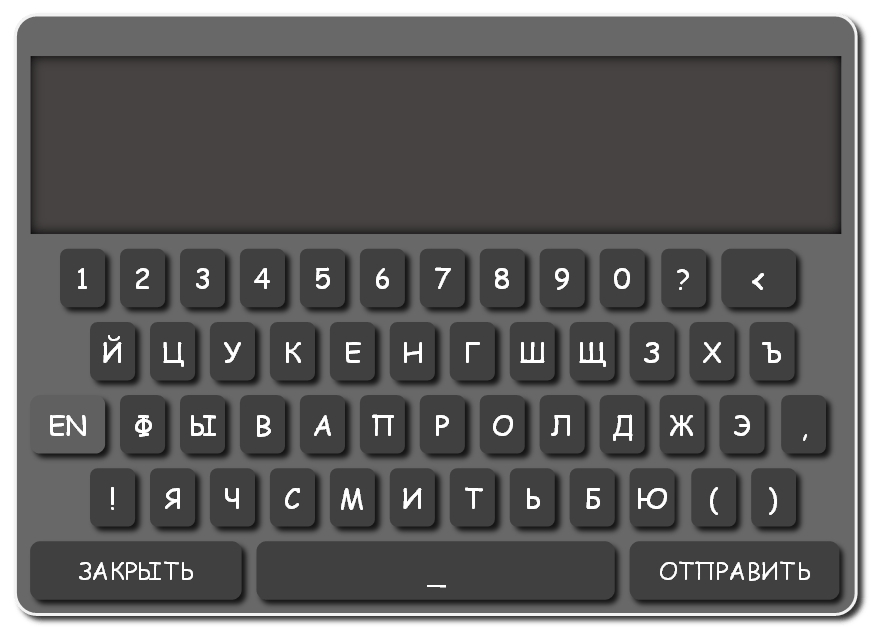
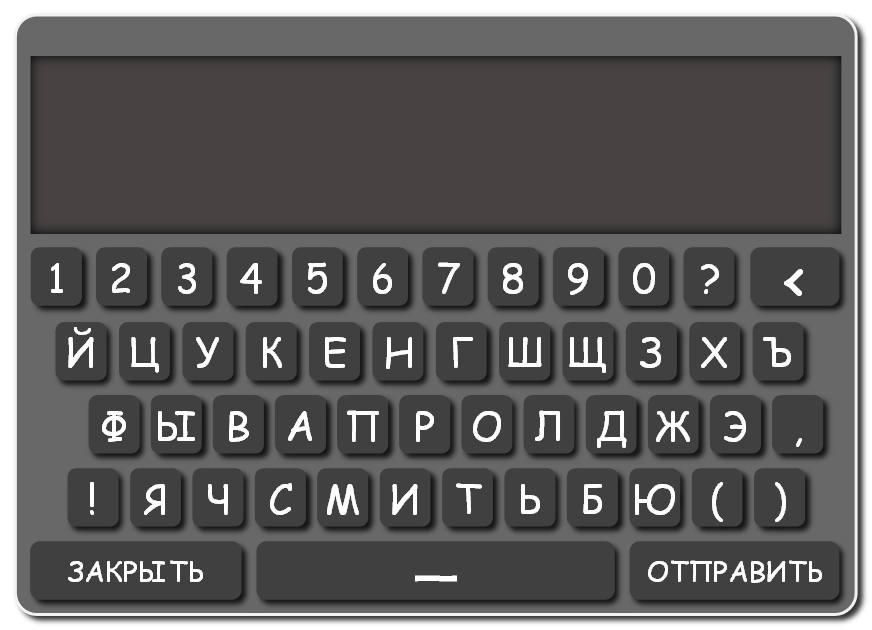
124

diff --git a/index.js b/index.js
@@ -515,18 +515,31 @@ sound = {
 	
 	on : 1,
 	
-	play : function(snd_res) {
+	play(snd_res) {
 		
 		if (this.on === 0)
 			return;
 		
-		if (game_res.resources[snd_res]===undefined)
+		if (!gres[snd_res])
 			return;
 		
-		game_res.resources[snd_res].sound.play();	
+		gres[snd_res].sound.play();	
+		
+	},
+	
+	sw(){
+		
+		if (this.on){
+			this.on=0;
+			objects.sound_switch_button.texture=gres.no_sound_icon.texture;
+		}else{
+			this.on=1;
+			this.play('click');
+			objects.sound_switch_button.texture=gres.sound_switch_button.texture;
+		}
+		
 		
 	}
-	
 	
 }
 
@@ -2085,8 +2098,9 @@ process_new_message = function(msg) {
 
 show_ad = function(){
 		
-	if (game_platform==="YANDEX") {			
+	if (game_platform==='YANDEX') {			
 		//показываем рекламу
+		if(!window?.ysdk?.adv) return;
 		window.ysdk.adv.showFullscreenAdv({
 		  callbacks: {
 			onClose: function() {}, 
@@ -2440,15 +2454,14 @@ chat = {
 
 feedback = {
 		
-	rus_keys : [[50,176,80,215.07,'1'],[90,176,120,215.07,'2'],[130,176,160,215.07,'3'],[170,176,200,215.07,'4'],[210,176,240,215.07,'5'],[250,176,280,215.07,'6'],[290,176,320,215.07,'7'],[330,176,360,215.07,'8'],[370,176,400,215.07,'9'],[410,176,440,215.07,'0'],[491,176,541,215.07,'<'],[70,224.9,100,263.97,'Й'],[110,224.9,140,263.97,'Ц'],[150,224.9,180,263.97,'У'],[190,224.9,220,263.97,'К'],[230,224.9,260,263.97,'Е'],[270,224.9,300,263.97,'Н'],[310,224.9,340,263.97,'Г'],[350,224.9,380,263.97,'Ш'],[390,224.9,420,263.97,'Щ'],[430,224.9,460,263.97,'З'],[470,224.9,500,263.97,'Х'],[510,224.9,540,263.97,'Ъ'],[90,273.7,120,312.77,'Ф'],[130,273.7,160,312.77,'Ы'],[170,273.7,200,312.77,'В'],[210,273.7,240,312.77,'А'],[250,273.7,280,312.77,'П'],[290,273.7,320,312.77,'Р'],[330,273.7,360,312.77,'О'],[370,273.7,400,312.77,'Л'],[410,273.7,440,312.77,'Д'],[450,273.7,480,312.77,'Ж'],[490,273.7,520,312.77,'Э'],[70,322.6,100,361.67,'!'],[110,322.6,140,361.67,'Я'],[150,322.6,180,361.67,'Ч'],[190,322.6,220,361.67,'С'],[230,322.6,260,361.67,'М'],[270,322.6,300,361.67,'И'],[310,322.6,340,361.67,'Т'],[350,322.6,380,361.67,'Ь'],[390,322.6,420,361.67,'Б'],[430,322.6,460,361.67,'Ю'],[511,322.6,541,361.67,')'],[451,176,481,215.07,'?'],[30,371.4,171,410.47,'ЗАКРЫТЬ'],[181,371.4,420,410.47,'_'],[430,371.4,570,410.47,'ОТПРАВИТЬ'],[531,273.7,561,312.77,','],[471,322.6,501,361.67,'('],[30,273.7,80,312.77,'EN']],
-	eng_keys : [[50,176,80,215.07,'1'],[90,176,120,215.07,'2'],[130,176,160,215.07,'3'],[170,176,200,215.07,'4'],[210,176,240,215.07,'5'],[250,176,280,215.07,'6'],[290,176,320,215.07,'7'],[330,176,360,215.07,'8'],[370,176,400,215.07,'9'],[410,176,440,215.07,'0'],[491,176,541,215.07,'<'],[110,224.9,140,263.97,'Q'],[150,224.9,180,263.97,'W'],[190,224.9,220,263.97,'E'],[230,224.9,260,263.97,'R'],[270,224.9,300,263.97,'T'],[310,224.9,340,263.97,'Y'],[350,224.9,380,263.97,'U'],[390,224.9,420,263.97,'I'],[430,224.9,460,263.97,'O'],[470,224.9,500,263.97,'P'],[130,273.7,160,312.77,'A'],[170,273.7,200,312.77,'S'],[210,273.7,240,312.77,'D'],[250,273.7,280,312.77,'F'],[290,273.7,320,312.77,'G'],[330,273.7,360,312.77,'H'],[370,273.7,400,312.77,'J'],[410,273.7,440,312.77,'K'],[450,273.7,480,312.77,'L'],[471,322.6,501,361.67,'('],[70,322.6,100,361.67,'!'],[150,322.6,180,361.67,'Z'],[190,322.6,220,361.67,'X'],[230,322.6,260,361.67,'C'],[270,322.6,300,361.67,'V'],[310,322.6,340,361.67,'B'],[350,322.6,380,361.67,'N'],[390,322.6,420,361.67,'M'],[511,322.6,541,361.67,')'],[451,176,481,215.07,'?'],[30,371.4,170,410.47,'CLOSE'],[180,371.4,420,410.47,'_'],[430,371.4,570,410.47,'SEND'],[531,273.7,561,312.77,','],[30,273.7,80,312.77,'RU']],
+	rus_keys : [[30.5,175,66.25,214.07,'1'],[74,175,109.75,214.07,'2'],[117.5,175,153.25,214.07,'3'],[161.1,175,196.85,214.07,'4'],[204.6,175,240.35,214.07,'5'],[248.2,175,283.95,214.07,'6'],[291.7,175,327.45,214.07,'7'],[335.3,175,371.05,214.07,'8'],[378.8,175,414.55,214.07,'9'],[422.4,175,458.15,214.07,'0'],[510.4,175,569.98,214.07,'<'],[47,224.9,81.02,263.97,'Й'],[89.3,224.9,123.32,263.97,'Ц'],[131.5,224.9,165.52,263.97,'У'],[173.8,224.9,207.82,263.97,'К'],[216.1,224.9,250.12,263.97,'Е'],[258.4,224.9,292.42,263.97,'Н'],[300.6,224.9,334.62,263.97,'Г'],[342.9,224.9,376.92,263.97,'Ш'],[385.2,224.9,419.22,263.97,'Щ'],[427.5,224.9,461.52,263.97,'З'],[469.7,224.9,503.72,263.97,'Х'],[512,224.9,546.02,263.97,'Ъ'],[69,273.7,103.02,312.77,'Ф'],[110.5,273.7,144.52,312.77,'Ы'],[151.9,273.7,185.92,312.77,'В'],[193.4,273.7,227.42,312.77,'А'],[234.8,273.7,268.82,312.77,'П'],[276.3,273.7,310.32,312.77,'Р'],[317.7,273.7,351.72,312.77,'О'],[359.2,273.7,393.22,312.77,'Л'],[400.6,273.7,434.62,312.77,'Д'],[442.1,273.7,476.12,312.77,'Ж'],[483.5,273.7,517.52,312.77,'Э'],[55,322.6,89.02,361.67,'!'],[96.6,322.6,130.62,361.67,'Я'],[138.3,322.6,172.32,361.67,'Ч'],[179.9,322.6,213.92,361.67,'С'],[221.5,322.6,255.52,361.67,'М'],[263.2,322.6,297.22,361.67,'И'],[304.8,322.6,338.82,361.67,'Т'],[346.5,322.6,380.52,361.67,'Ь'],[388.1,322.6,422.12,361.67,'Б'],[429.7,322.6,463.72,361.67,'Ю'],[513,322.6,547.02,361.67,')'],[465.9,175,501.65,214.07,'?'],[30,371.4,171,410.47,'ЗАКРЫТЬ'],[181,371.4,420,410.47,'_'],[430,371.4,570,410.47,'ОТПРАВИТЬ'],[525,273.7,559.02,312.77,','],[471.4,322.6,505.42,361.67,'(']],
 	keyboard_layout : [],
 	lang : '',
 	p_resolve : 0,
 	MAX_SYMBOLS : 50,
 	uid:0,
 	
-	show : function(uid,max_symbols) {
+	show(uid,max_symbols) {
 		
 		if (max_symbols)
 			this.MAX_SYMBOLS=max_symbols
@@ -2506,9 +2519,8 @@ feedback = {
 	},
 	
 	key_down (key) {
-		
-		
-		if (objects.feedback_cont.visible === false || objects.feedback_cont.ready === false) return;
+				
+		if (!objects.feedback_cont.visible|| !objects.feedback_cont.ready) return;
 		
 		key = key.toUpperCase();
 		
@@ -3592,7 +3604,7 @@ auth = function() {
 
 
 				//-----------ЛОКАЛЬНЫЙ СЕРВЕР--------------------------------
-				if (s.includes("192.168")) {
+				if (s.includes("127.0")) {
 					help_obj.debug();
 					return;
 				}
